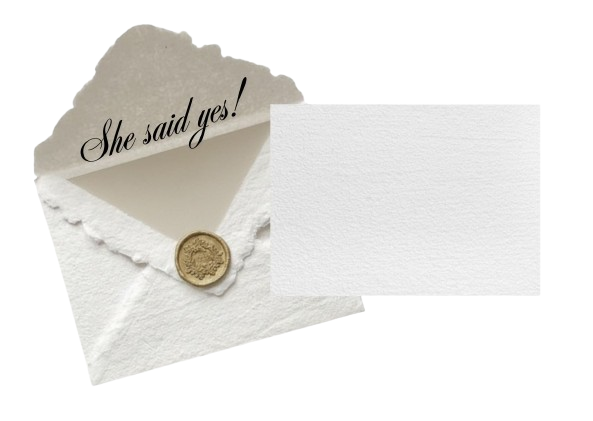
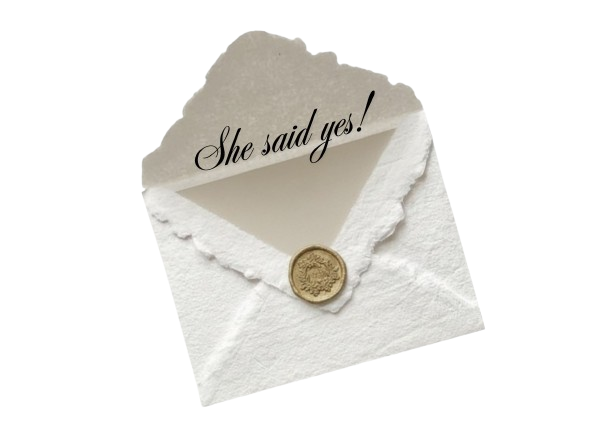
Refactor code structure for improved readability and maintainability

diff --git a/components/image-gallery.tsx b/components/image-gallery.tsx
@@ -1,23 +1,33 @@
 "use client";
 
-import type React from "react";
-
-import { useState } from "react";
 import { motion } from "framer-motion";
-import { Card, CardContent, CardHeader, CardTitle } from "./ui/card";
-import { Button } from "./ui/button";
-import { Upload } from "lucide-react";
 import { AnimatedImageGallery } from "./ui/animated-image-gallery";
+import { Button } from "./ui/button";
+import { useState } from "react";
+import { Upload } from "lucide-react";
+import Image from "next/image";
+
+// const images = [
+//   "/DSC_9528.jpg",
+//   "/DSC_9240.jpg",
+//   "/countdown.jpeg",
+//   "/countdownImage.jpg",
+//   "/DSC_8816.jpg",
+//   "/timeline.jpg",
+//   "/IMG_7866.jpg",
+//   "/IMG_7876.jpg",
+// ];
 
 export function ImageGallery() {
   const [images, setImages] = useState([
+    "/DSC_9528.jpg",
+    "/DSC_9240.jpg",
     "/countdown.jpeg",
     "/countdownImage.jpg",
     "/DSC_8816.jpg",
-    "/DSC_9240.jpg",
-    "/DSC_9528.jpg",
-    "/Hero image.jpeg",
     "/timeline.jpg",
+    "/IMG_1.jpeg",
+    "/IMG_2.jpeg",
   ]);
 
   const handleImageUpload = (event: React.ChangeEvent<HTMLInputElement>) => {
@@ -55,52 +65,60 @@ export function ImageGallery() {
           Our Journey Together
         </motion.h2>
 
-        {/* Upload Card */}
-        <motion.div
-          initial={{ opacity: 0, y: 30 }}
-          whileInView={{ opacity: 1, y: 0 }}
-          viewport={{ once: true }}
-          transition={{ duration: 0.6, delay: 0.2 }}
-          className="max-w-full sm:max-w-3xl md:max-w-4xl lg:max-w-5xl xl:max-w-6xl mx-auto mb-10"
-        >
-          {/* <Card className="border-2 border-black">
-            <CardHeader>
-              <CardTitle className="text-center text-black font-great-vibes text-2xl sm:text-3xl md:text-4xl">
-                Share Your Memories
-              </CardTitle>
-            </CardHeader>
-            <CardContent>
-              <div className="text-center">
-                <input
-                  type="file"
-                  multiple
-                  accept="image/*"
-                  onChange={handleImageUpload}
-                  className="hidden"
-                  id="image-upload"
-                />
-                <label htmlFor="image-upload">
-                  <Button
-                    asChild
-                    className="bg-black hover:bg-gray-800 text-white px-4 sm:px-5 md:px-6 py-2 sm:py-2.5 text-xs sm:text-sm md:text-base"
-                  >
-                    <span className="cursor-pointer">
-                      <Upload className="w-3 h-3 sm:w-4 sm:h-4 mr-2" />
-                      Upload Photos
-                    </span>
-                  </Button>
-                </label>
-                <p className="text-xs sm:text-sm text-gray-600 mt-2 font-montserrat">
-                  Share your favorite moments with us!
-                </p>
-              </div>
-            </CardContent>
-          </Card> */}
-        </motion.div>
-
         {/* Animated Gallery */}
         <AnimatedImageGallery images={galleryImages} columns={3} />
       </div>
+
+      {/* Upload Card with Oval Background */}
+      <motion.div
+        initial={{ opacity: 0, y: 30 }}
+        whileInView={{ opacity: 1, y: 0 }}
+        viewport={{ once: true }}
+        transition={{ duration: 0.6, delay: 0.2 }}
+        className="max-w-lg sm:max-w-xl md:max-w-2xl mx-auto relative py-12"
+      >
+        {/* Oval shape background */}
+        <div className="relative w-full aspect-5/3">
+          <Image
+            src="/ovalshape.png"
+            alt="Decorative oval"
+            fill
+            className="object-contain"
+          />
+
+          {/* Card content inside oval */}
+          <div className="absolute inset-0 flex items-center justify-center px-12 sm:px-16 md:px-20 py-8 sm:py-10">
+            <div className="text-center w-full">
+              <h3 className="text-black font-great-vibes text-2xl sm:text-3xl md:text-4xl mb-4 sm:mb-6">
+                Share Your Memories
+              </h3>
+
+              <input
+                type="file"
+                multiple
+                accept="image/*"
+                onChange={handleImageUpload}
+                className="hidden"
+                id="image-upload"
+              />
+              <label htmlFor="image-upload">
+                <Button
+                  asChild
+                  className="bg-black hover:bg-gray-800 text-white px-4 sm:px-5 md:px-6 py-2 sm:py-2.5 text-xs sm:text-sm md:text-base"
+                >
+                  <span className="cursor-pointer">
+                    <Upload className="w-3 h-3 sm:w-4 sm:h-4 mr-2" />
+                    Upload Photos
+                  </span>
+                </Button>
+              </label>
+              <p className="text-xs sm:text-sm text-gray-600 mt-2 font-montserrat">
+                Share your favorite moments with us!
+              </p>
+            </div>
+          </div>
+        </div>
+      </motion.div>
     </section>
   );
 }

diff --git a/components/envelope-card.tsx b/components/envelope-card.tsx
@@ -5,51 +5,76 @@ import { motion } from "framer-motion";
 
 export function EnvelopeCard() {
   return (
-    <div className="relative w-full overflow-hidden py-8 sm:py-12 md:py-16 lg:py-20">
-      {/* Invitation text overlay */}
-      {/* <div className="absolute top-56 left-1/2 transform -translate-x-1/2 z-10 text-center px-4 sm:px-6 md:px-8 max-w-2xl">
-        <div className="p-6 sm:p-8 md:p-10">
-          <p className="font-great-vibes text-2xl sm:text-3xl md:text-4xl text-gray-800 leading-relaxed mb-4">
-            With hearts full of love, we joyfully invite you to share in the
-            celebration of our forever.
-          </p>
-          <p className="font-montserrat text-sm sm:text-base md:text-lg text-gray-700 font-medium italic">
-            Your presence will add joy and meaning to our special day.
-          </p>
-        </div>
-      </div> */}
+    <div className="relative w-full overflow-visible py-8 sm:py-12 md:py-16 lg:py-20">
+      <div className="container mx-auto px-4 max-w-3xl">
+        <div className="relative w-full h-[550px] sm:h-[650px] md:h-[750px]">
+          {/* Envelope - positioned in center/bottom area */}
+          <motion.div
+            initial={{ opacity: 0, scale: 0.9 }}
+            whileInView={{ opacity: 1, scale: 1 }}
+            viewport={{ once: true, amount: 0.2 }}
+            transition={{
+              duration: 0.8,
+              ease: "easeOut",
+            }}
+            className="absolute top-[35%] left-1/2 -translate-x-1/2 w-full max-w-[450px] sm:max-w-[550px] z-10"
+          >
+            <div className="relative w-full aspect-[16/10]">
+              <Image
+                src="/invitation.jpeg"
+                alt="Wedding envelope"
+                fill
+                className="object-contain"
+              />
+            </div>
+          </motion.div>
 
-      {/* Envelope image */}
-      <motion.div
-        initial={{ scale: 0.5, opacity: 0, rotateY: -15 }}
-        whileInView={{ scale: 1, opacity: 1, rotateY: 0 }}
-        viewport={{ once: true, amount: 0.3 }}
-        transition={{
-          duration: 1,
-          ease: [0.34, 1.56, 0.64, 1],
-          opacity: { duration: 0.6 },
-        }}
-        className="perspective-1000"
-      >
-        <motion.div
-          initial={{ y: 50 }}
-          whileInView={{ y: 0 }}
-          viewport={{ once: true, amount: 0.3 }}
-          transition={{
-            duration: 0.8,
-            delay: 0.2,
-            ease: "easeOut",
-          }}
-        >
-          <Image
-            src="/fullinvitation.png"
-            alt="Envelope"
-            width={800}
-            height={300}
-            className="mx-auto w-full h-auto lg:h-screen object-contain"
-          />
-        </motion.div>
-      </motion.div>
+          {/* Card - positioned to overlap the top of envelope */}
+          <motion.div
+            initial={{ y: -80, opacity: 0 }}
+            whileInView={{ y: 0, opacity: 1 }}
+            viewport={{ once: true, amount: 0.2 }}
+            transition={{
+              duration: 1,
+              delay: 0.3,
+              ease: "easeOut",
+            }}
+            className="absolute top-[8%] left-1/2 -translate-x-1/2 w-[45%] max-w-[220px] sm:max-w-[280px] z-30"
+          >
+            <div className="relative w-full aspect-[5/6]">
+              <Image
+                src="/card.png"
+                alt="Wedding invitation card"
+                fill
+                className="object-contain drop-shadow-2xl"
+                priority
+              />
+            </div>
+          </motion.div>
+
+          {/* Ribbon - positioned on the left, on the envelope flap area */}
+          <motion.div
+            initial={{ scale: 0, rotate: -180, opacity: 0 }}
+            whileInView={{ scale: 1, rotate: 0, opacity: 1 }}
+            viewport={{ once: true, amount: 0.2 }}
+            transition={{
+              duration: 0.7,
+              delay: 0.7,
+              ease: [0.34, 1.56, 0.64, 1],
+            }}
+            className="absolute top-[50%] left-[8%] sm:left-[12%] md:left-[15%] w-[70px] sm:w-[90px] md:w-[110px] z-20"
+          >
+            <div className="relative w-full aspect-[2/3]">
+              <Image
+                src="/ribbon.png"
+                alt="Ribbon decoration"
+                fill
+                className="object-contain drop-shadow-lg"
+              />
+            </div>
+          </motion.div>
+        </div>
+      </div>
     </div>
   );
 }

diff --git a/components/ui/animated-image-gallery.tsx b/components/ui/animated-image-gallery.tsx
@@ -42,7 +42,7 @@ export function AnimatedImageGallery({
         className
       )}
     >
-      <div className="mx-auto grid w-full max-w-7xl gap-6 sm:grid-cols-2 lg:grid-cols-3 px-4 sm:px-6 lg:px-8">
+      <div className="mx-auto grid w-full max-w-7xl gap-6 sm:grid-cols-2 lg:grid-cols-3 ">
         {imageColumns.map((columnImages, col) => (
           <div key={col} className="grid gap-6">
             {columnImages.map((image, index) => (
